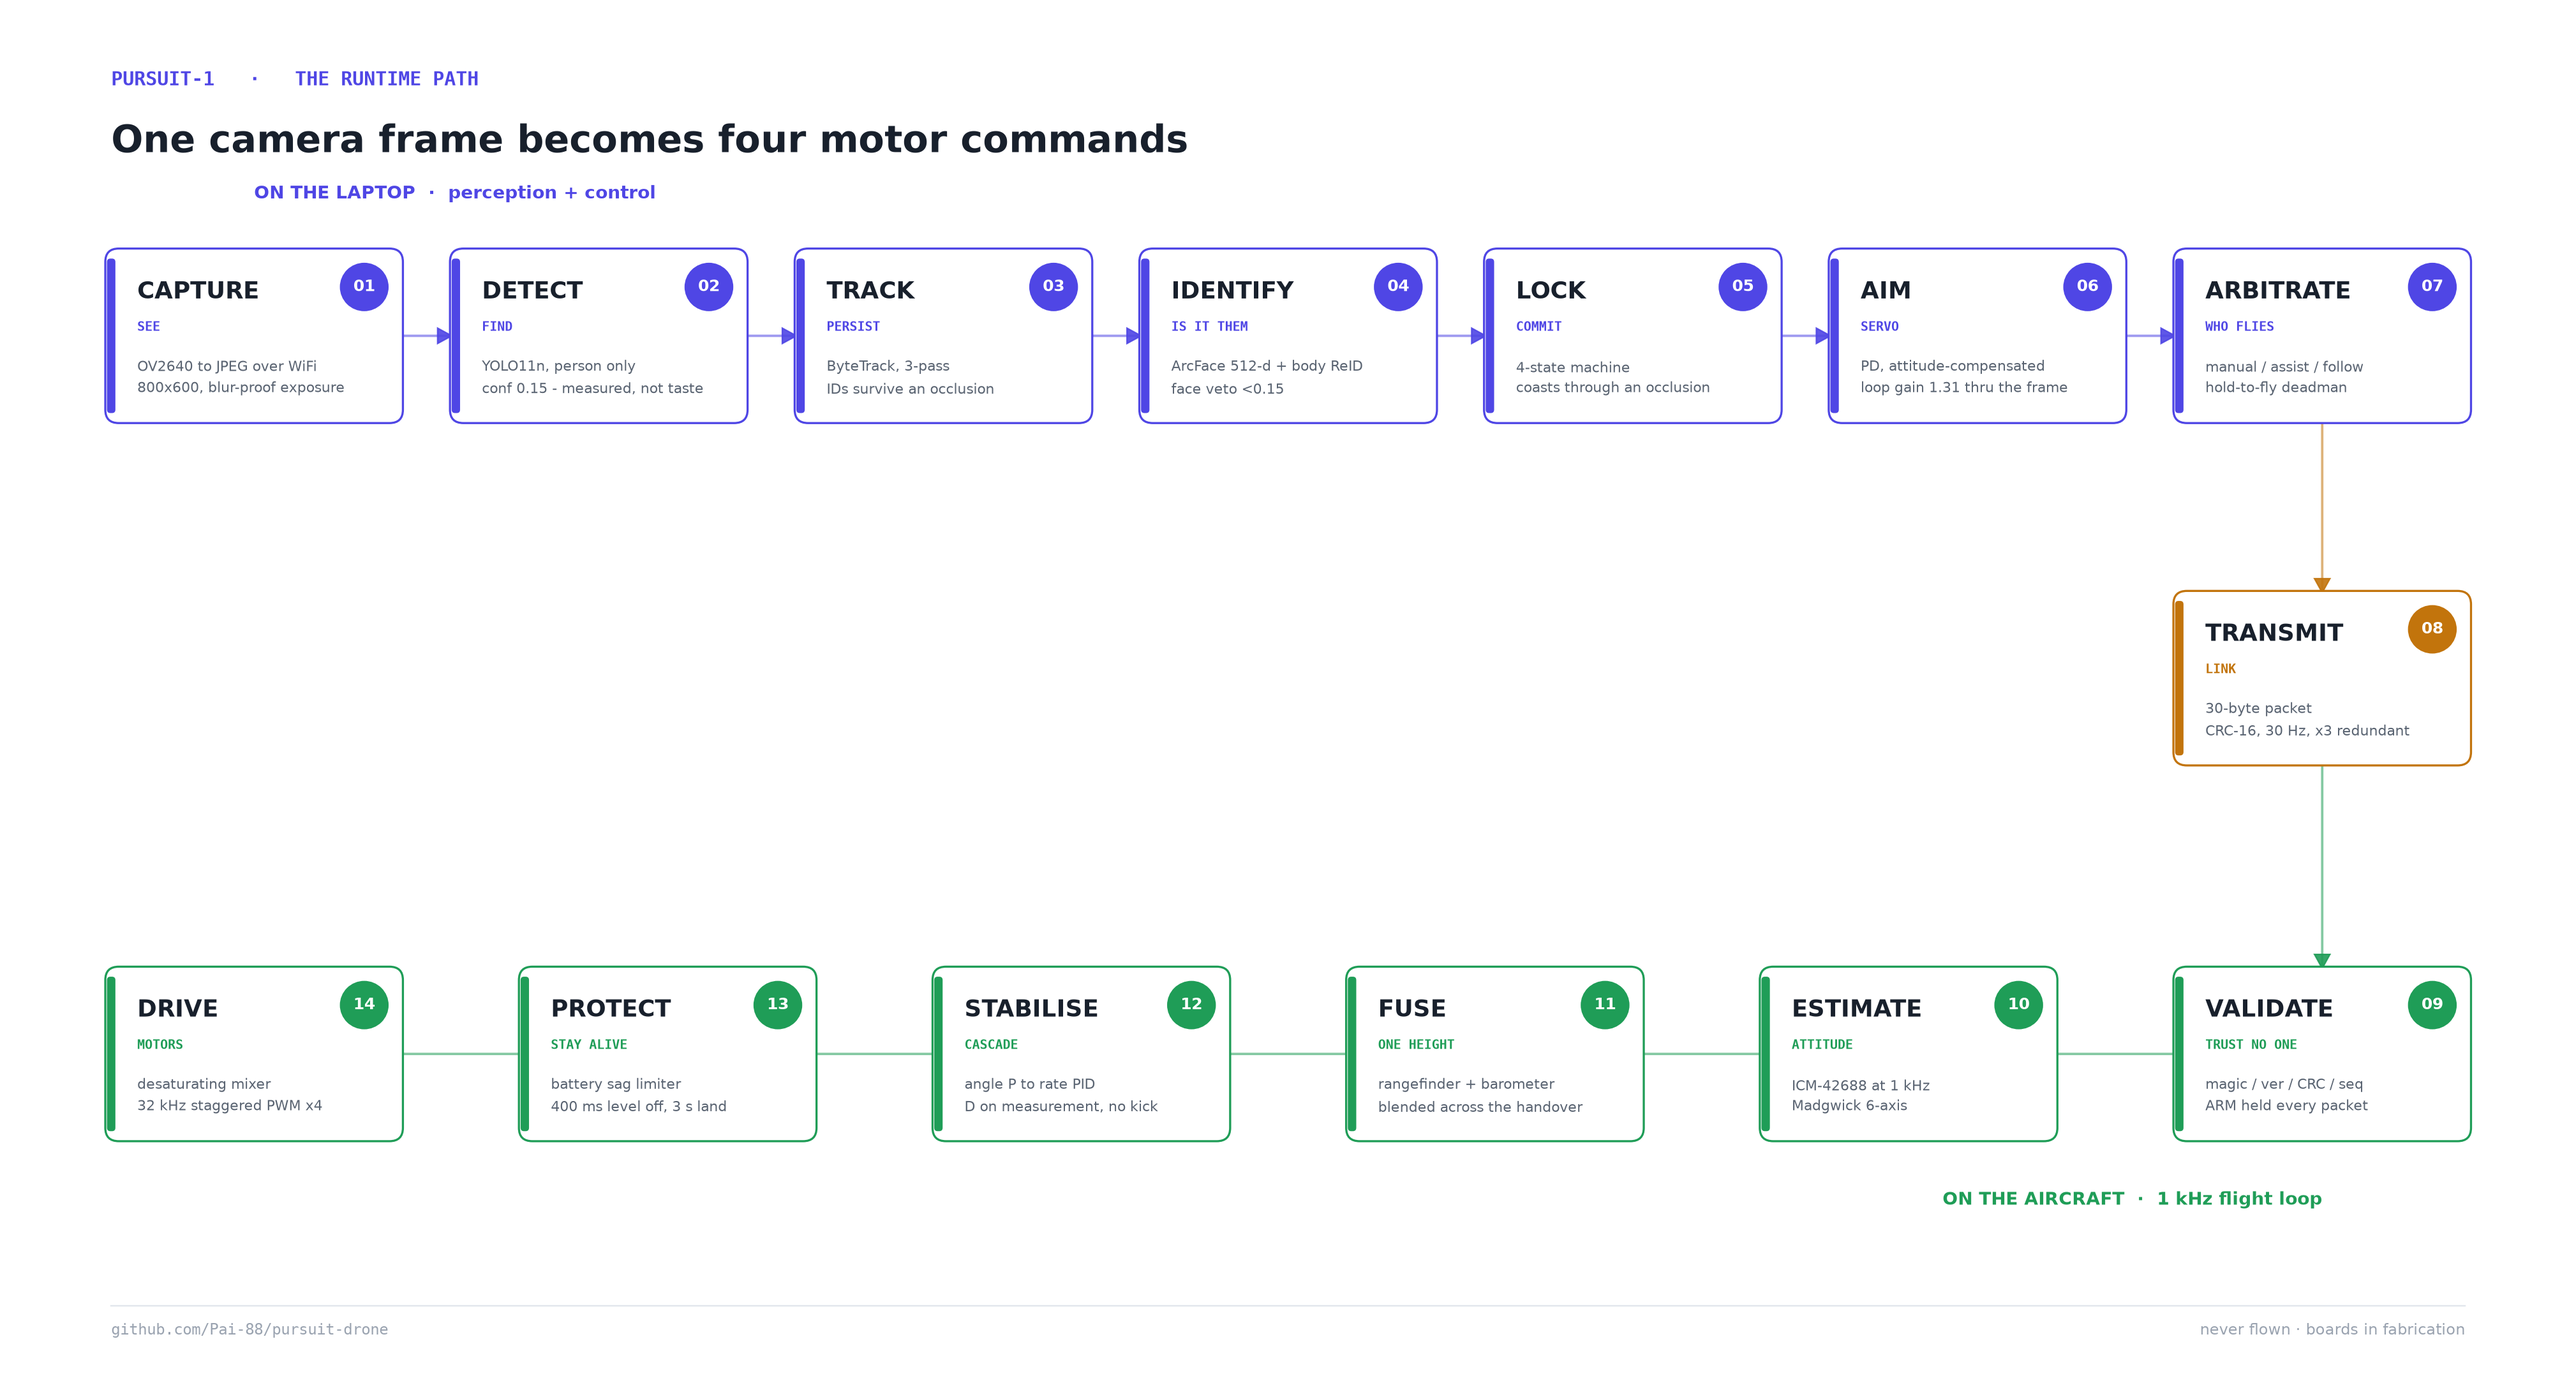
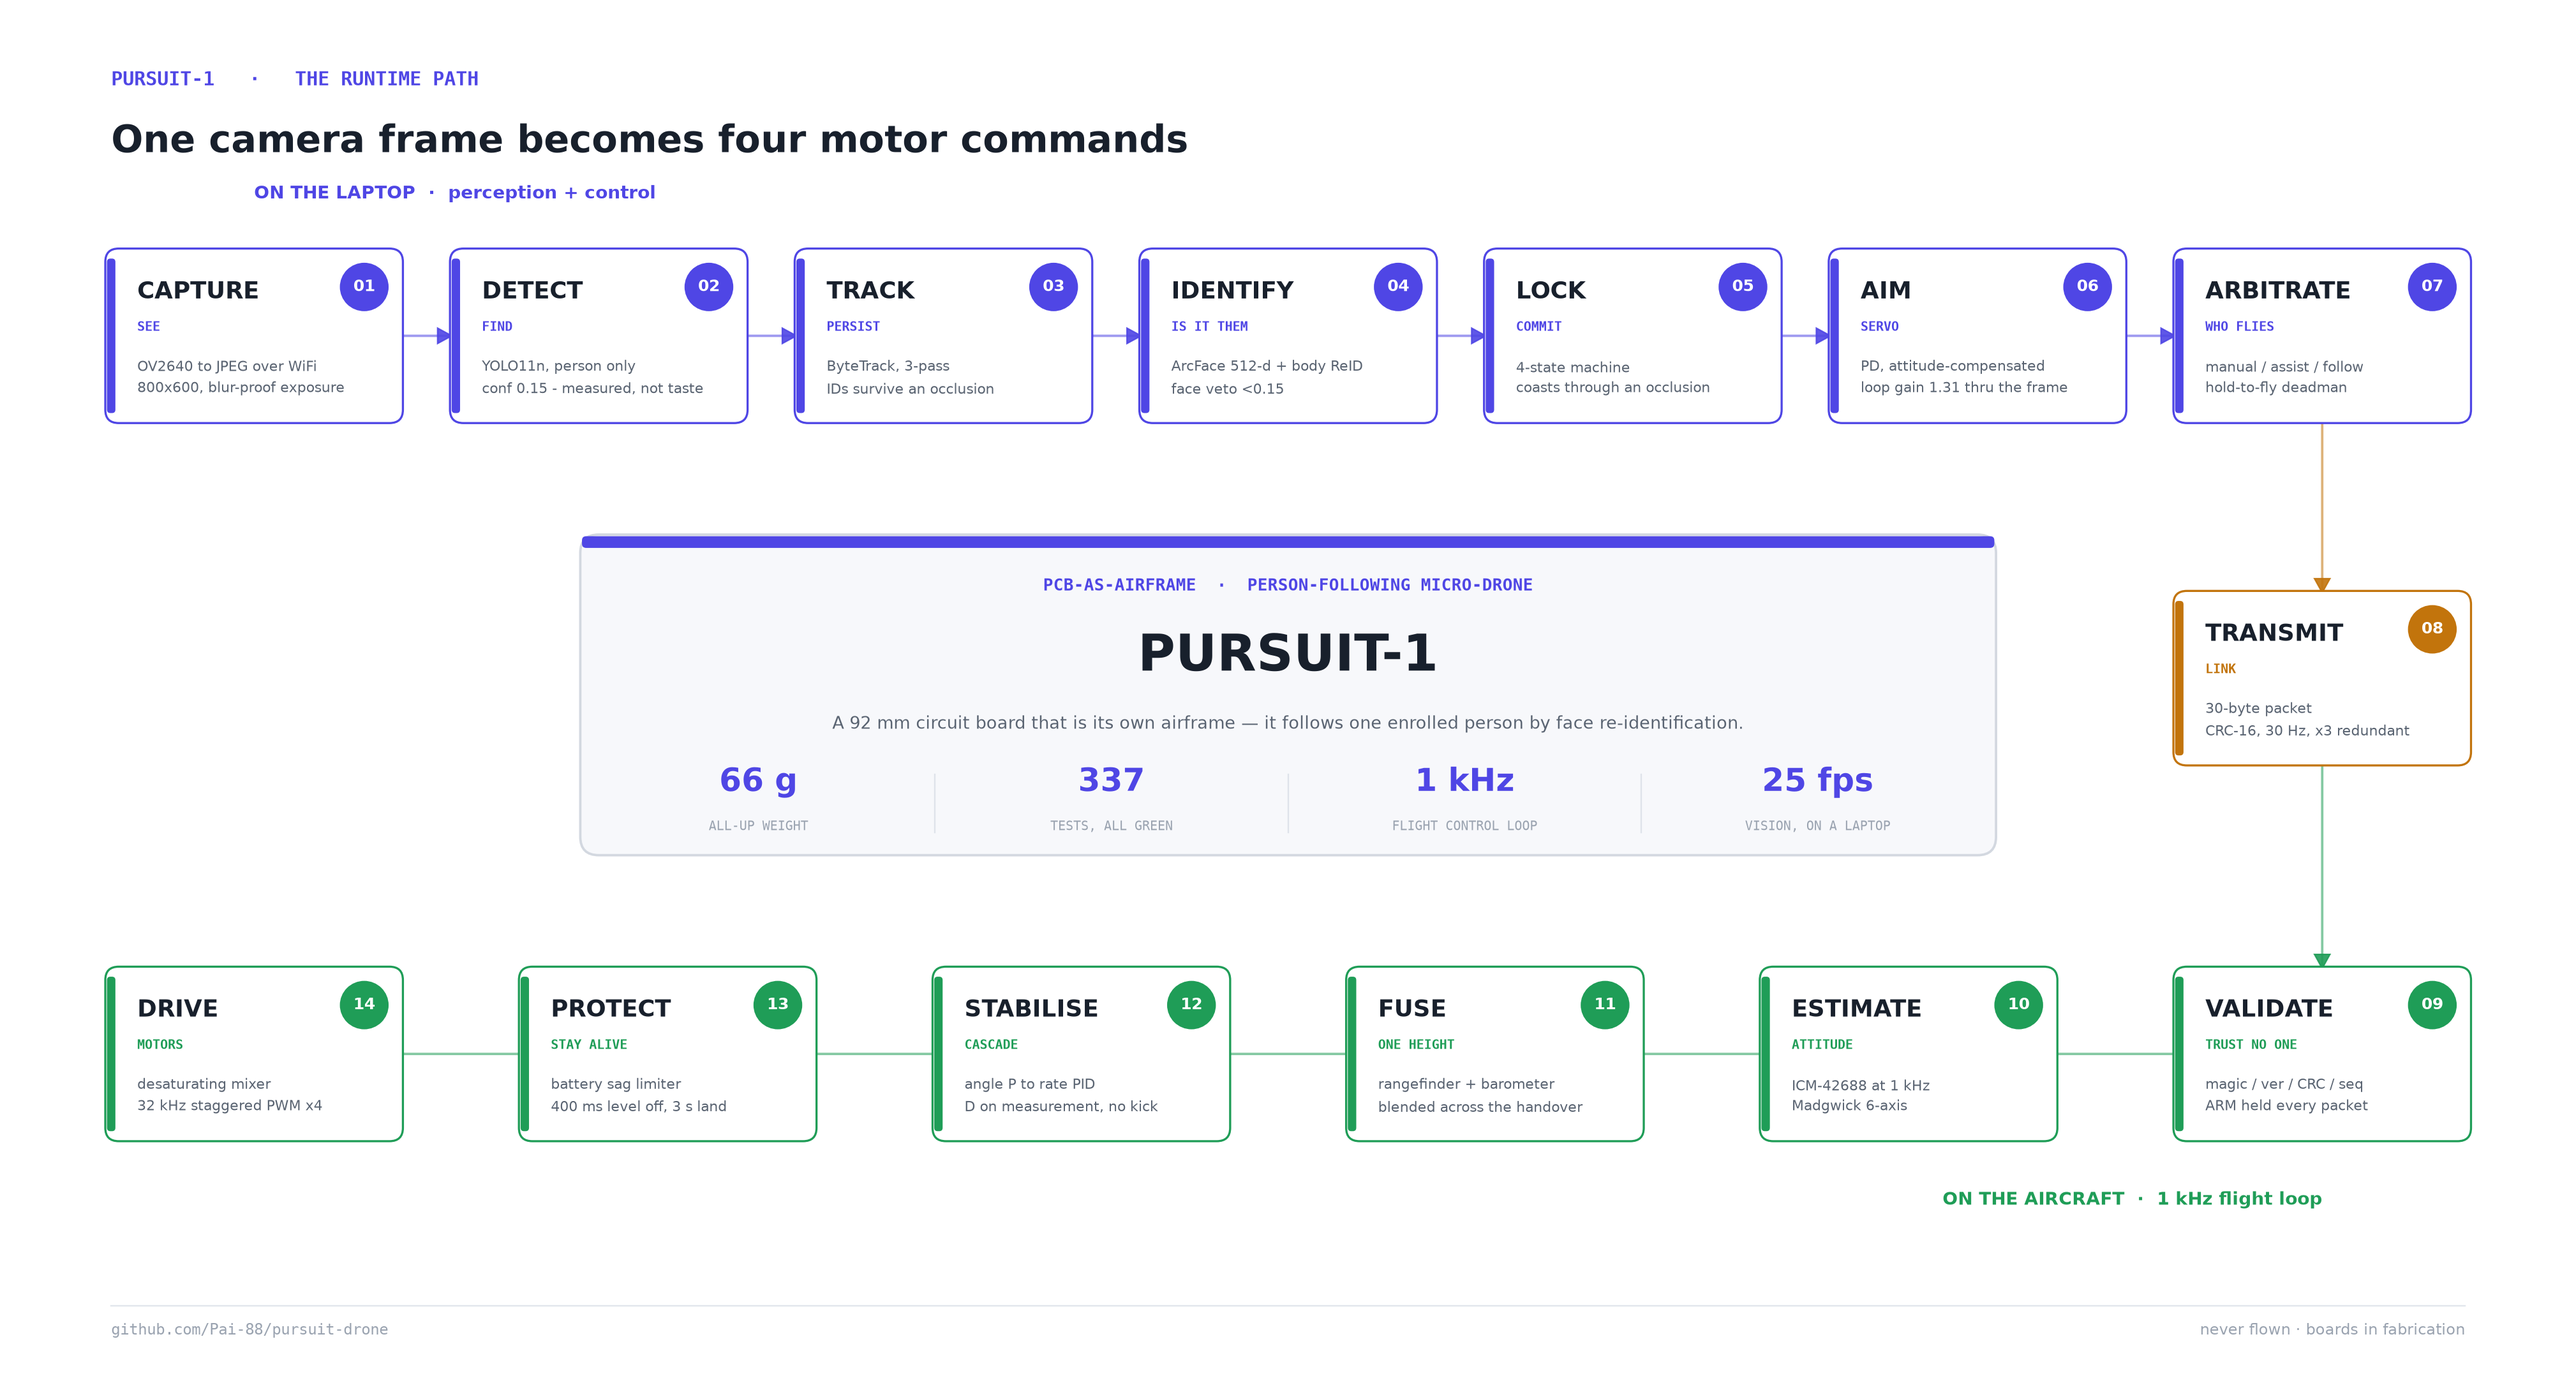
docs: fill the dead middle with a hero card
The empty band between the two lanes wasted space and made the whole image
read small once LinkedIn scaled it down. Now a central identity card sits in
it — PURSUIT-1, one line, and four measured headline stats (66 g, 337 tests,
1 kHz, 25 fps) — with the 14-stage flow wrapping around it as a U.

Numbers are counted, not claimed: 111 native (pio test -e native) + 212
vision + 14 sim = 337.

diff --git a/docs/media/make_process_map.py b/docs/media/make_process_map.py
@@ -118,6 +118,49 @@ def link(ax, p0, p1, colour):
     ], closed=True, color=colour, alpha=0.9, zorder=3))
 
 
+def hero(ax):
+    """Central identity + headline stats, filling the space the U flows around.
+
+    The lanes answer "how does it work"; this answers "what is it" and gives
+    the picture a focal point instead of a dead middle band. Every number here
+    is measured — the count is `pio test -e native` + the vision and sim
+    suites, not a claim.
+    """
+    x0, x1 = 6.6, W - 6.6
+    y0, y1 = 6.1, 9.9
+    cx = (x0 + x1) / 2
+    ax.add_patch(FancyBboxPatch(
+        (x0, y0), x1 - x0, y1 - y0,
+        boxstyle="round,pad=0.02,rounding_size=0.22",
+        linewidth=1.6, edgecolor="#d3d8e0", facecolor="#f7f8fb", zorder=3))
+    ax.add_patch(FancyBboxPatch(
+        (x0, y1 - 0.14), x1 - x0, 0.14,
+        boxstyle="round,pad=0,rounding_size=0.05",
+        linewidth=0, facecolor=INDIGO, zorder=4))
+
+    ax.text(cx, 9.25, "PCB-AS-AIRFRAME  ·  PERSON-FOLLOWING MICRO-DRONE",
+            color=INDIGO, fontsize=11, fontweight="bold", ha="center",
+            family="monospace", zorder=5)
+    ax.text(cx, 8.45, "PURSUIT-1", color=INK, fontsize=34, fontweight="bold",
+            ha="center", va="center", zorder=5)
+    ax.text(cx, 7.65,
+            "A 92 mm circuit board that is its own airframe — it follows one "
+            "enrolled person by face re-identification.",
+            color=MUTE, fontsize=11.5, ha="center", va="center", zorder=5)
+
+    stats = [("66 g", "all-up weight"), ("337", "tests, all green"),
+             ("1 kHz", "flight control loop"), ("25 fps", "vision, on a laptop")]
+    for i, (big, lab) in enumerate(stats):
+        sx = x0 + (x1 - x0) * (i + 0.5) / len(stats)
+        ax.text(sx, 6.95, big, color=INDIGO, fontsize=21, fontweight="bold",
+                ha="center", va="center", zorder=5)
+        ax.text(sx, 6.42, lab.upper(), color=FAINT, fontsize=8.5, ha="center",
+                va="center", zorder=5, family="monospace")
+        if i:
+            ax.plot([sx - (x1 - x0) / len(stats) / 2] * 2, [6.35, 7.05],
+                    color="#dfe3ea", linewidth=1, zorder=4)
+
+
 def main():
     fig, ax = plt.subplots(figsize=(W, H))
     fig.patch.set_facecolor(BG); ax.set_facecolor(BG)
@@ -133,6 +176,8 @@ def main():
     ax.text(W - 2.7, Y[2] - NH / 2 - 0.78,
             "ON THE AIRCRAFT  ·  1 kHz flight loop", color=GREEN,
             fontsize=12, fontweight="bold", ha="right")
+
+    hero(ax)
 
     xs = layout()
     order = list(range(len(STAGES)))
